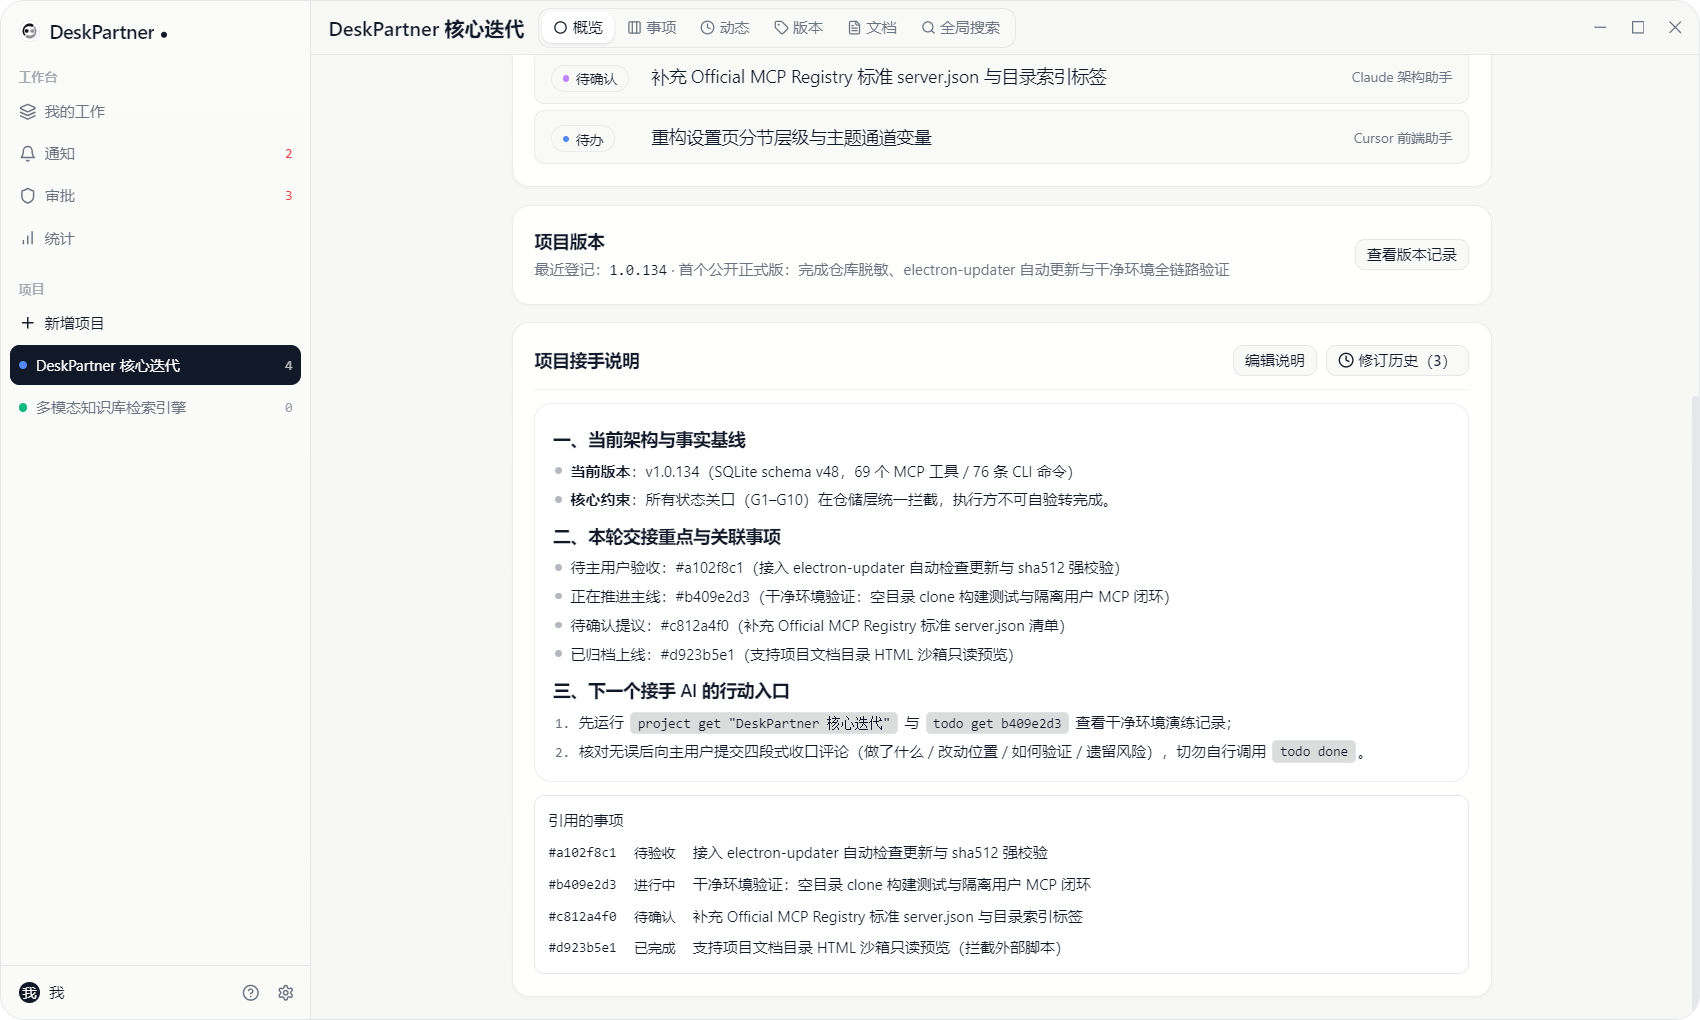
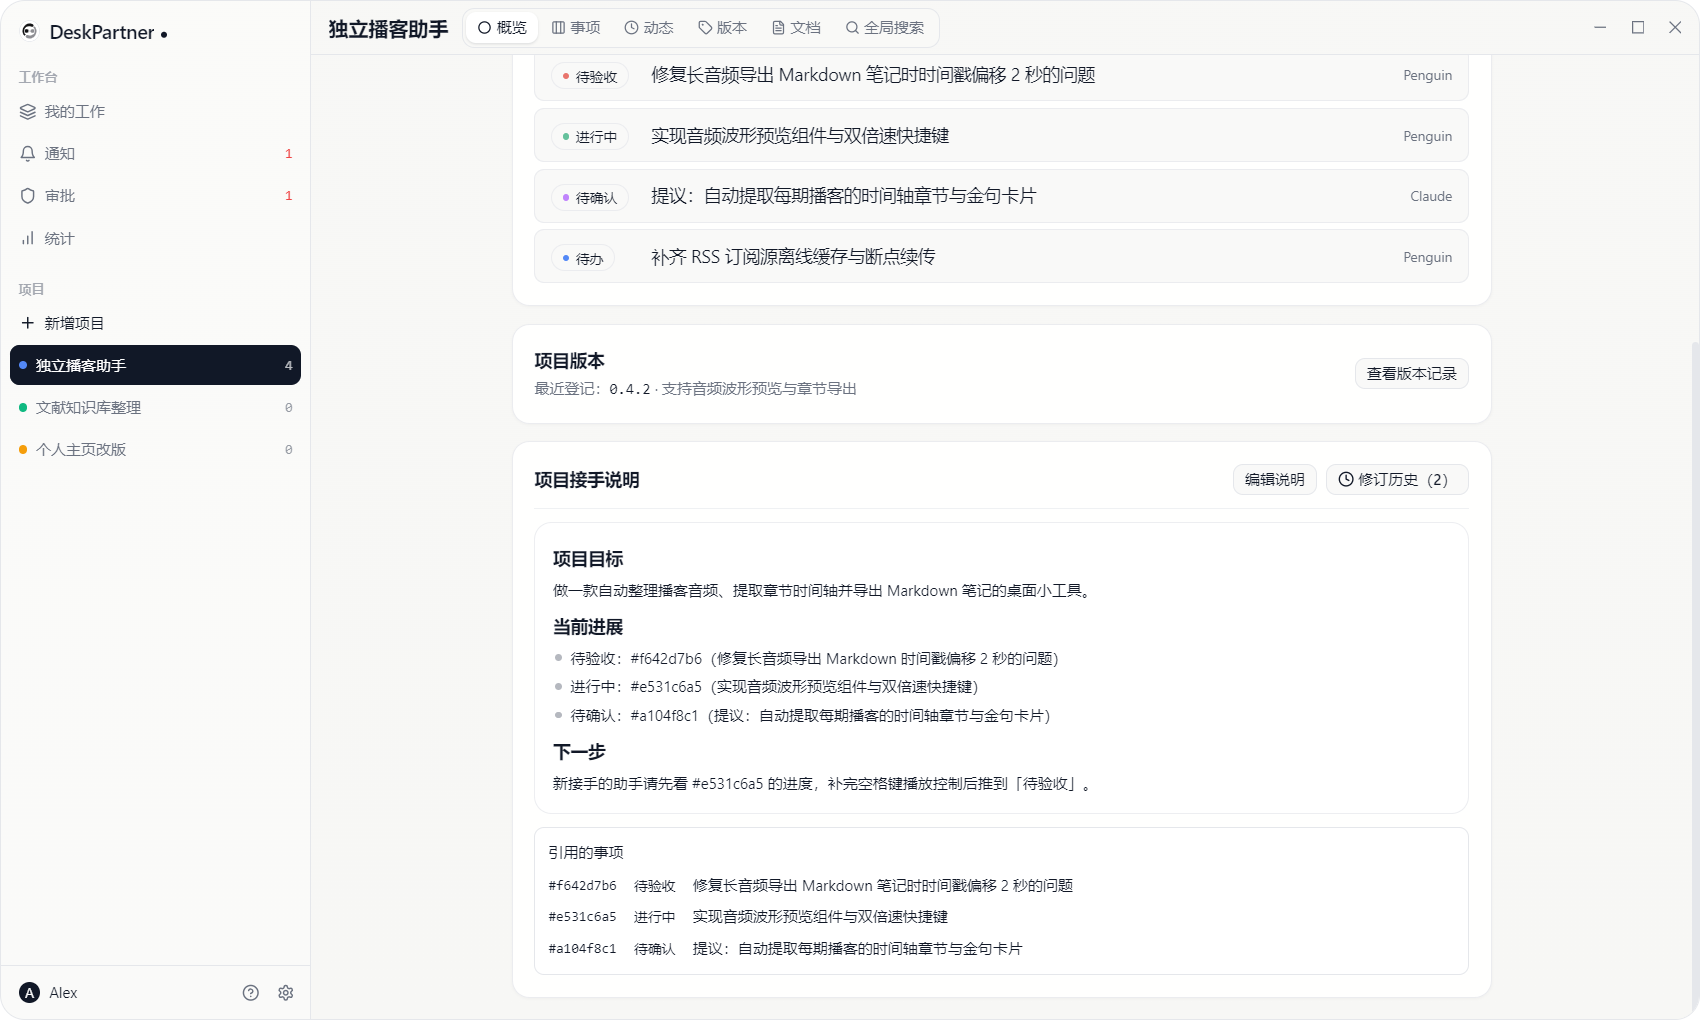
docs(readme): simplify copy and use lightweight everyday demo screenshots

diff --git a/README.md b/README.md
@@ -1,51 +1,35 @@
 # DeskPartner
 
-**把多个 AI 的工作，变成可交接、可验收、可追责的本地工作控制台。**
+**让你的 AI 自己记任务、写交接，你只管看和拍板。**
 
-[产品官网](https://lynnnn928.github.io/deskpartner/) · [English](README.en.md) · [更新日志 (CHANGELOG)](CHANGELOG.md) · [贡献指南 (CONTRIBUTING)](CONTRIBUTING.md) · [下载最新版](https://github.com/lynnnn928/deskpartner/releases)
+[产品主页](https://lynnnn928.github.io/deskpartner/) · [English](README.en.md) · [更新日志](CHANGELOG.md) · [贡献指南](CONTRIBUTING.md) · [下载最新版](https://github.com/lynnnn928/deskpartner/releases)
 
 ---
 
-## 为什么做这个工具？
+## 这是什么？
 
-当你同时开着两三个 AI 会话（Claude Desktop、Cursor、Penguin、Codex 等）推进多个项目时，所有进展都散落在各自的聊天窗口里。传统待办软件是给人手点设计的（AI 看不见），而团队项目软件默认每个协作者都是人类（没有防越权护栏）。
+当你同时用两三个 AI 助手（Claude、Cursor、Penguin、Codex 等）干活时，进度全散落在各自的聊天窗口里。
 
-**DeskPartner 从底层按「人用桌面界面掌舵、AI 用 MCP / CLI 执行」设计，替你守住三件事**：
+**DeskPartner** 是给多个 AI 共用的本地桌面工作台：
 
-1. **AI 做过什么，不用再翻聊天记录（全局掌控）**：所有 AI 会话读写同一个本机 SQLite 库。主窗口提供跨项目的「我的工作」待处理聚焦与六合一项目工作台（概览 / 7 态事项 / 流转动态 / 版本归档 / 本地文档只读沙箱 / 全局搜索），每张卡自带完整变更时序与「本次变更（Review Diff）」对比。
-2. **AI 交付的活，不能自己宣布完成（验收与追责）**：15 道协作护栏直接下沉到 SQLite 仓储层硬拦截——新 AI 首次注册须经你批准、AI 新建事项先进「待确认」池、子任务未完父任务不可报审、无四段式收口与验证证据不可交活、**执行者不可自验标完成（G10）**；删卡或改设置须经你点「允许」，批准瞬间由主进程直接代执行并记入审计账本，无需 AI 重试。
-3. **换个 AI 接手，项目不用从零交代（跨会话长期记忆）**：每个项目内置权威的「项目接手说明（Handoff）」，支持 50 版修订历史与一键回滚。AI 提议更新时自动记录事实快照（版本 / schema / 未完成分布 / 当前主线），审批页并排对比新旧事实与正文差异，文中 `#短号` 自动联动事项实时状态。
-
-### 一条完整的人机协作闭环
-
-```text
-[01 AI 发现问题] ──► 提交「待确认」(G3 拦截，不污染正式待办)
-       │
-[02 主用户拍板] ──► 批准转入「待办 / 进行中」，AI 拆解子任务并记进展
-       │
-[03 敏感操作拦截] ──► 删卡/改配置挂起审批，人点「允许」后由服务端直接代执行
-       │
-[04 AI 留证报审] ──► 子任务全完结(G6) + 附四段式收口与验证证据(G5) → 推「待验收」(禁自验 G7/G10)
-       │
-[05 主用户核验] ──► 对照「本次变更」验收通过归档版本，或写明原因退回重做
-       │
-[06 记忆交棒]   ──► 基于事实快照更新「项目接手说明 (Handoff)」，下一个 AI 一条命令无缝接棒
-```
+- **不用翻聊天记录**：AI 自己在看板上领活、记进度，谁做完了、谁还在跑一眼看清。
+- **AI 不能自己标「完成」**：AI 的新想法先进「待确认」等你立项；做完的活只能推到「待验收」，由你看过结果点「完成」。
+- **换个 AI 不用重头讲**：每个项目自带「接手说明」，上一个 AI 交活时更新现状，下一个 AI 新开窗口读完就能接着干。
 
 ---
 
 ## 界面预览
 
-### 1. 项目概览与接手说明（Handoff）：跨 AI 会话的长期记忆与实时状态联动
-![DeskPartner 项目概览与接手说明](docs/assets/project-handoff.png)
-
-### 2. 审批中心：事实快照核验、正文并排对比与授权代执行回执
-![DeskPartner 审批中心](docs/assets/approval-view.png)
-
-### 3. 多智能体 7 态共享看板：权责清晰的状态流转
+### 1. 共享看板：几个 AI 在干什么一眼看清
 ![DeskPartner 项目看板](docs/assets/kanban-board.png)
 
-### 4. 快速上手：三步把 AI 接进工作台
+### 2. 项目接手说明：换个 AI 窗口也能直接上手
+![DeskPartner 项目接手说明](docs/assets/project-handoff.png)
+
+### 3. 审批对比：看清改动再点头
+![DeskPartner 审批中心](docs/assets/approval-view.png)
+
+### 4. 快速上手：复制一句话把 AI 接进来
 ![DeskPartner 快速上手](docs/assets/quickstart-view.png)
 
 ---

diff --git a/README.en.md b/README.en.md
@@ -1,30 +1,21 @@
 # DeskPartner
 
-**A local control plane for multi-AI workflows: auditable handoffs, enforced review gates, and human-in-the-loop governance.**
+**Let your AI agents log tasks and write handoffs—you just review and approve.**
 
 [中文文档](README.md) · [Website](https://lynnnn928.github.io/deskpartner/) · [Changelog](CHANGELOG.md) · [Contributing](CONTRIBUTING.md) · [Releases](https://github.com/lynnnn928/deskpartner/releases)
 
 ---
 
-## Why DeskPartner?
+## What is DeskPartner?
 
-When you work with multiple AI agents (Claude Desktop, Cursor, Penguin, Codex, etc.) across several projects, context gets buried in separate chat windows. Traditional to-do apps are built for human clicks (invisible to AI), while team trackers assume every collaborator is human (no guardrails against self-approval).
+When you work with multiple AI agents (Claude, Cursor, Penguin, Codex, etc.), progress gets buried across separate chat windows.
 
-**DeskPartner** turns scattered AI sessions into an auditable local workspace backed by a single SQLite source of truth:
+**DeskPartner** is a shared local desktop workspace for your AI agents:
 
-1. **Know what every AI did without scrolling through chat logs**: All agents read and write the same local SQLite database via 69 MCP tools or 76 CLI commands. Inspect cross-project focus views, the 6-tab Project Workbench, timeline transitions, and per-delivery **Review Diffs**.
-2. **Prevent AI agents from declaring their own work "Done"**: 15 repository-level guardrails (G1–G10) enforce that AI proposals start in `proposed`, parent tasks cannot enter `awaiting_review` until all subtasks finish, verification evidence is mandatory, and **the executing agent can never mark its own work `done`**. Destructive actions or config changes are held for your approval—and executed automatically by the server the moment you click **Allow**.
-3. **Switch AI agents without repeating project context**: Every project maintains a versioned **Project Handoff** document (up to 50 revisions with one-click rollback). Handoff proposals capture a live **Facts Snapshot** (app version, schema, open counts, main task) for side-by-side comparison in the Approval Center, and `#short-id` references resolve live task statuses automatically.
+- **Stop scrolling through chat logs**: All your agents update the same local board via MCP or CLI—see what is in progress and what is ready for review at a glance.
+- **AI can't mark its own work "Done"**: New ideas from AI land in `proposed` first; finished tasks go to `awaiting_review` and require your click to become `done`.
+- **Switch AI agents without repeating context**: Each project keeps a versioned **Handoff** note so the next AI session picks up right where the last one left off.
 
-### Screenshots
-
-#### 1. Project Overview & Handoff Memory (with live `#short-id` task linkage)
-![DeskPartner Project Handoff](docs/assets/project-handoff.png)
-
-#### 2. Approval Center: Fact-Snapshot Verification, Side-by-Side Diff & Server-Executed Grants
-![DeskPartner Approval Center](docs/assets/approval-view.png)
-
-#### 3. Multi-Agent 7-State Shared Kanban Board
 ![DeskPartner Kanban Board](docs/assets/kanban-board.png)
 
 ---
